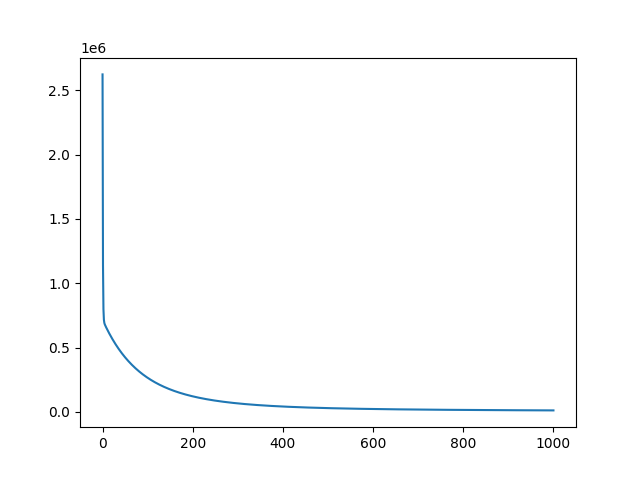
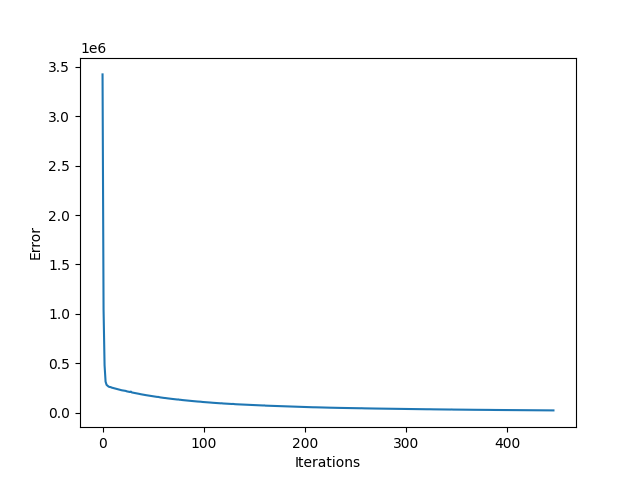
Added task 3-5

diff --git a/main.py b/main.py
@@ -1,18 +1,31 @@
 import numpy as np
 import random
 import matplotlib.pyplot as plt
-
-
-# import plotly.graph_objects as go
-# import plotly.express as px
-# import time
-# from plotly.subplots import make_subplots
+import plotly.graph_objects as go
+import plotly.express as px
+from plotly.subplots import make_subplots
 
 
 # plt.rcParams["figure.figsize"] = (20, 10)
-# random.seed(1)
+random.seed(1)
 
-def gradient_descent(gradient_func, start_point, iterations, eps):
+
+class CommonGradientDescent:
+    def __init__(self, regression, points, n, error_func, step, mu=None, beta1=None, beta2=None):
+        self.regression = regression
+        self.points = points
+        self.n = n
+        self.error_func = error_func
+        self.step = step
+        if mu:
+            self.mu = mu
+        if beta1:
+            self.beta1 = beta1
+        if beta2:
+            self.beta2 = beta2
+
+
+def gradient_descent(gradient_func: CommonGradientDescent, start_point, iterations, eps):
     current_point = start_point
     points = [current_point]
     for it in range(iterations):
@@ -38,21 +51,6 @@ class MeanSquaredError:
         for p in points:
             res -= 2 * (p[1] - regression.function(state, p[0])) * regression.gradient(p[0])
         return res / len(points)
-
-
-class CommonGradientDescent:
-    def __init__(self, regression, points, n, error_func, step, mu=None, beta1=None, beta2=None):
-        self.regression = regression
-        self.points = points
-        self.n = n
-        self.error_func = error_func
-        self.step = step
-        if mu:
-            self.mu = mu
-        if beta1:
-            self.beta1 = beta1
-        if beta2:
-            self.beta2 = beta2
 
 
 class StandartGradient(CommonGradientDescent):
@@ -177,30 +175,6 @@ def f(xs):
     return result
 
 
-def check():
-    regression = LinearRegression()
-    error_func = MeanSquaredError()
-    step = 1e-4
-    eps = 1e-5
-    train_points = generate_points(f, 50, 100)
-    iterations = 1000
-
-    ps = gradient_descent(
-        gradient_func=StandartGradient(
-            regression=regression,
-            points=train_points,
-            n=len(train_points),
-            error_func=error_func,
-            step=step
-        ),
-        start_point=np.array([0.0] * (len(train_points[0][0]) + 1)),
-        iterations=iterations,
-        eps=eps
-    )[0]
-    plt.plot(range(len(ps)), [error_func.function(regression, train_points, x) for x in ps])
-    plt.savefig('check.png')
-
-
 def task1():
     regression = LinearRegression()
     error_func = MeanSquaredError()
@@ -254,7 +228,6 @@ def scale_points(points, dimension_size):
 def task2():
     regression = LinearRegression()
     error_func = MeanSquaredError()
-    step = 1e-4
     eps = 1e-1
     number_of_points = 100
     dimension_size = 40
@@ -262,29 +235,231 @@ def task2():
     scaled_points = scale_points(train_points, dimension_size)
 
     batch_sizes = range(1, number_of_points + 1, 2)
-    iterations = []
-    for batch_size in batch_sizes:
-        iterations.append(gradient_descent(
-            gradient_func=StandartGradient(
+    plt.xlabel('Batch Size')
+    plt.ylabel('Needed iterations to reach ok quality')
+    steps = [5e-2, 1e-4]
+    legend = []
+
+    for step in steps:
+        scaled_iterations = []
+        iterations = []
+        for batch_size in batch_sizes:
+            trajectory, its = gradient_descent(
+                gradient_func=StandartGradient(
+                    regression=regression,
+                    points=scaled_points,
+                    n=batch_size,
+                    error_func=error_func,
+                    step=step
+                ),
+                start_point=np.array([0.0] * (len(train_points[0][0]) + 1)),
+                iterations=1000,
+                eps=eps
+            )
+            scaled_iterations.append(its)
+            trajectory, its = gradient_descent(
+                gradient_func=StandartGradient(
+                    regression=regression,
+                    points=train_points,
+                    n=batch_size,
+                    error_func=error_func,
+                    step=step
+                ),
+                start_point=np.array([0.0] * (len(train_points[0][0]) + 1)),
+                iterations=1000,
+                eps=eps
+            )
+            iterations.append(its)
+            print("batch_size" + str(batch_size) + "finished with step = " + str(step))
+        legend.append(plt.plot(batch_sizes, iterations, label='SGD with step = ' + str(step))[0])
+        legend.append(plt.plot(batch_sizes, scaled_iterations, label='Scaled SGD with step = ' + str(step))[0])
+    plt.suptitle('Task2')
+    plt.legend(handles=legend)
+    plt.savefig('task2.png')
+
+
+def draw_iterations_to_error_graphics():
+    regression = LinearRegression()
+    error_func = MeanSquaredError()
+    eps = 1e-1
+    number_of_points = 100
+    dimension_size = 40
+    step = 5e-2
+    train_points = generate_points(f, dimension_size, number_of_points)
+    batch_size = 50
+
+    trajectory, its = gradient_descent(
+        gradient_func=StandartGradient(
+            regression=regression,
+            points=train_points,
+            n=batch_size,
+            error_func=error_func,
+            step=step
+        ),
+        start_point=np.array([0.0] * (len(train_points[0][0]) + 1)),
+        iterations=1000,
+        eps=eps
+    )
+    plt.plot(range(len(trajectory)), [error_func.function(regression, train_points, x) for x in trajectory])
+    plt.xlabel('Iterations')
+    plt.ylabel('Error')
+    plt.savefig('check.png')
+
+
+def task3():
+    number_of_points = 100
+    dimension_size = 40
+    train_points = generate_points(f, dimension_size, number_of_points)
+    train_points = scale_points(train_points, dimension_size)
+    methods = {
+        "GD": StandartGradient,
+        "SGD": StandartGradient,
+        "Momentum": MomentumGradient,
+        "Nesterov": NesterovGradient,
+        "AdaGrad": AdagradGradient,
+        "RMSProp": RMSPropGradient,
+        "Adam": AdamGradient
+    }
+    plots = []
+    for label, gradient in methods.items():
+        regression = LinearRegression()
+        error_func = MeanSquaredError()
+
+        n = len(train_points) // 10
+        eps = 1e-2
+        step = 1e-2
+        mu = 0.9
+        beta1 = 0.9
+        beta2 = 0.999
+
+        if label == "GD":
+            n = len(train_points)
+        if label == "SGD":
+            pass
+        if label == "Momentum":
+            pass
+        if label == "Nesterov":
+            step = 1e-3
+        if label == "AdaGrad":
+            step = 50
+        if label == "RMSProp":
+            step = 10
+        if label == "Adam":
+            step = 10
+
+        start_time = time.time()
+        trajectory = gradient_descent(
+            gradient_func=gradient(
                 regression=regression,
-                points=scaled_points,
-                n=batch_size,
+                points=train_points,
+                n=n,
                 error_func=error_func,
-                step=step
+                step=step,
+                mu=mu,
+                beta1=beta1,
+                beta2=beta2,
+            ),
+            start_point=np.array([0.0] * (len(train_points[0][0]) + 1)),
+            iterations=500,
+            eps=eps
+        )[0][1:]
+
+        print(label)
+        print(f'function calls: {regression.function_calls}')
+        print(f'gradient calls: {regression.gradient_calls}')
+        print(f'seconds: {time.time() - start_time}')
+        plots.append(
+            plt.plot(range(len(trajectory)), [error_func.function(regression, train_points, x) for x in trajectory],
+                     label=label)[0])
+
+    plt.suptitle('Task3-4')
+    plt.xlabel('Iterations')
+    plt.ylabel('Error')
+    plt.legend(handles=plots)
+    plt.savefig('task3-4.png')
+
+def task5():
+    number_of_points = 100
+    dimension_size = 1
+
+    fig = make_subplots(rows=7, cols=1,
+                        subplot_titles=("GD", "SGD", "Momentum", "Nesterov", "AdaGrad", "RMSProp", "Adam"))
+    methods = {
+        "GD": StandartGradient,
+        "SGD": StandartGradient,
+        "Momentum": MomentumGradient,
+        "Nesterov": NesterovGradient,
+        "AdaGrad": AdagradGradient,
+        "RMSProp": RMSPropGradient,
+        "Adam": AdamGradient
+    }
+
+    error_func = MeanSquaredError()
+    regression = LinearRegression()
+
+    def g(xs):
+        return 10 - 4 * xs[0]
+
+    train_points = generate_points(g, dimension_size, number_of_points)
+
+    xs = list(range(-2, 12))
+    ys = list(range(-10, 2))
+    zs = []
+    for y in ys:
+        layer = []
+        for x in xs:
+            layer.append(error_func.function(regression, train_points, [x, y]))
+        zs.append(layer)
+
+    row = 0
+    for label, gradient in methods.items():
+        row += 1
+
+        n = len(train_points) // 20
+        eps = 1e-5
+        step = 1e-3
+        mu = 0.9
+        beta1 = 0.9
+        beta2 = 0.999
+
+        if label == "GD":
+            n = len(train_points)
+        if label == "SGD":
+            pass
+        if label == "Momentum":
+            pass
+        if label == "Nesterov":
+            step = 3e-4
+            mu = 0.85
+        if label == "AdaGrad":
+            step = 2
+        if label == "RMSProp":
+            step = 2e-1
+        if label == "Adam":
+            step = 2e-1
+
+        trajectory = gradient_descent(
+            gradient_func=gradient(
+                regression=regression,
+                points=train_points,
+                n=n,
+                error_func=error_func,
+                step=step,
+                mu=mu,
+                beta1=beta1,
+                beta2=beta2,
             ),
             start_point=np.array([0.0] * (len(train_points[0][0]) + 1)),
             iterations=1000,
             eps=eps
-        )[1])
-    plt.title('Scaled SGD')
-    plt.xlabel('Batch Size')
-    plt.ylabel('Needed iterations to reach ok quality')
-    plt.plot(batch_sizes, iterations)
-    plt.savefig('task2.png')
+        )[0]
 
+        fig.add_trace(go.Contour(x=xs, y=ys, z=zs), row=row, col=1)
+        fig.add_trace(go.Scatter(x=[p[0] for p in trajectory], y=[p[1] for p in trajectory], mode='lines',
+                                 line=dict(color='lightgreen')), row=row, col=1)
 
-task2()
-# data = [[-1, 2], [-0.5, 6], [0, 10], [1, 18]]
-# scaler = MinMaxScaler()
-# scaler.fit(data)
-# data = scaler.transform(data)
+    fig.update_layout(height=3000, width=1400)
+    fig.write_image('task5.png')
+
+# check()
+task5()
